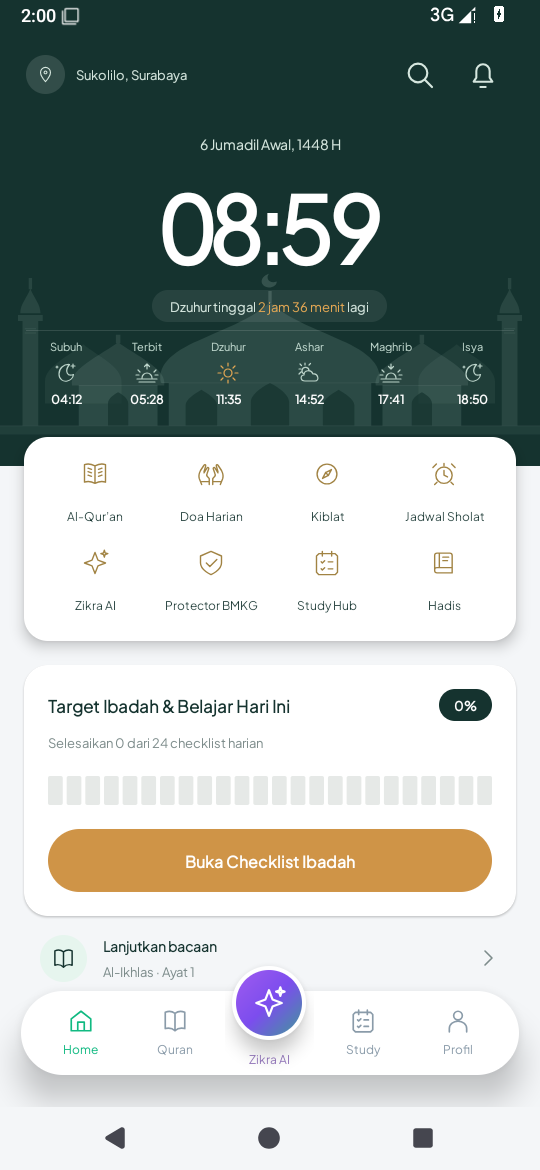
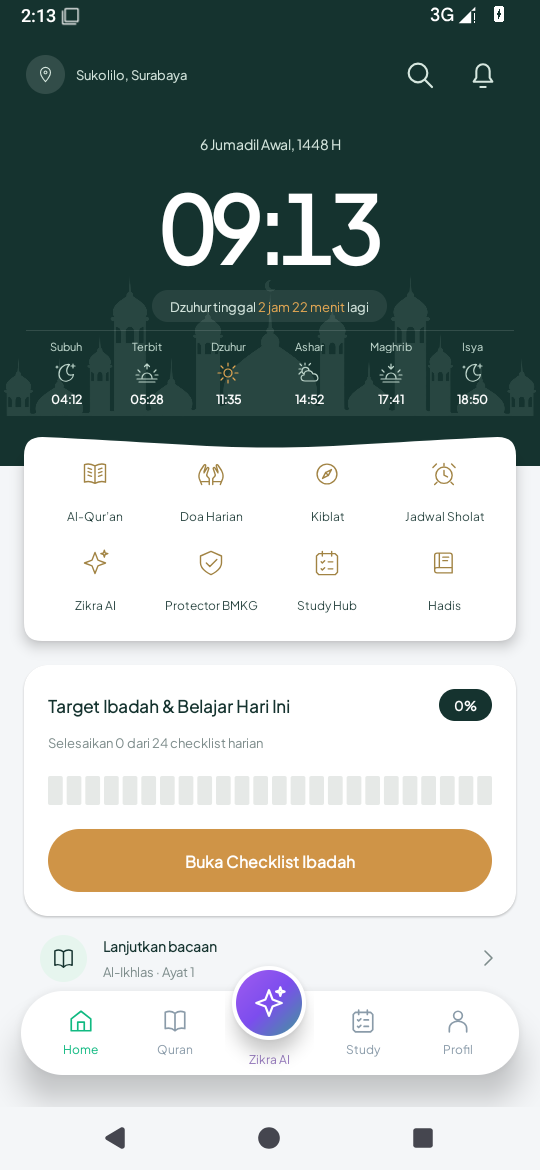
Match curved shortcut card and transparent mosque reference

diff --git a/android/app/src/main/java/com/zikra/app/ui/CurvedShortcutLayout.java b/android/app/src/main/java/com/zikra/app/ui/CurvedShortcutLayout.java
@@ -1,0 +1,75 @@
+package com.zikra.app.ui;
+
+import android.content.Context;
+import android.graphics.Canvas;
+import android.graphics.Color;
+import android.graphics.Outline;
+import android.graphics.Paint;
+import android.graphics.Path;
+import android.util.AttributeSet;
+import android.view.View;
+import android.view.ViewOutlineProvider;
+import android.widget.LinearLayout;
+
+/** XML shortcut container with the gently dipped top edge from the Home reference. */
+public final class CurvedShortcutLayout extends LinearLayout {
+  private final Paint surface = new Paint(Paint.ANTI_ALIAS_FLAG);
+  private final Path contour = new Path();
+  private final float density;
+
+  public CurvedShortcutLayout(Context context, AttributeSet attrs) {
+    super(context, attrs);
+    density = getResources().getDisplayMetrics().density;
+    surface.setColor(Color.WHITE);
+    setWillNotDraw(false);
+    setClipToOutline(false);
+    setOutlineProvider(
+        new ViewOutlineProvider() {
+          @Override
+          public void getOutline(View view, Outline outline) {
+            // Android 8 requires a convex elevation outline. Keep the actual concave contour
+            // for the surface and ripple clipping; this lower outline supplies a soft shadow.
+            if (view.getWidth() == 0 || view.getHeight() == 0) {
+              outline.setEmpty();
+              return;
+            }
+            outline.setRoundRect(
+                0, Math.round(8 * density), view.getWidth(), view.getHeight(), 14 * density);
+          }
+        });
+  }
+
+  @Override
+  protected void onSizeChanged(int width, int height, int oldWidth, int oldHeight) {
+    super.onSizeChanged(width, height, oldWidth, oldHeight);
+    float radius = Math.min(14 * density, Math.min(width, height) / 2f);
+    float dip = Math.min(8 * density, height / 8f);
+    contour.reset();
+    contour.moveTo(radius, 0);
+    contour.cubicTo(width * 0.24f, dip * 0.4f, width * 0.36f, dip, width / 2f, dip);
+    contour.cubicTo(width * 0.64f, dip, width * 0.76f, dip * 0.4f, width - radius, 0);
+    contour.quadTo(width, 0, width, radius);
+    contour.lineTo(width, height - radius);
+    contour.quadTo(width, height, width - radius, height);
+    contour.lineTo(radius, height);
+    contour.quadTo(0, height, 0, height - radius);
+    contour.lineTo(0, radius);
+    contour.quadTo(0, 0, radius, 0);
+    contour.close();
+    invalidateOutline();
+  }
+
+  @Override
+  protected void onDraw(Canvas canvas) {
+    super.onDraw(canvas);
+    canvas.drawPath(contour, surface);
+  }
+
+  @Override
+  protected void dispatchDraw(Canvas canvas) {
+    int checkpoint = canvas.save();
+    canvas.clipPath(contour);
+    super.dispatchDraw(canvas);
+    canvas.restoreToCount(checkpoint);
+  }
+}

diff --git a/android/README.md b/android/README.md
@@ -76,7 +76,7 @@ Lihat [VALIDATION.md](VALIDATION.md). Screenshot aplikasi native berada di folde
 ## Penyempurnaan Home — 17 Oktober 2026
 
 - Komposisi mengikuti referensi Home ringkas: lokasi, pencarian Quran, akses jadwal/pengingat, tanggal Hijriah, jam 70sp, countdown dan strip sholat. Status bar dan hero memakai warna Pine yang sama.
-- Siluet masjid vector digambar ulang dengan kubah, menara dan lengkungan pintu; ditempatkan di bawah jam agar angka tetap jelas.
+- Siluet masjid ditempatkan di bawah jam agar angka tetap jelas; versi terbaru menggunakan aset transparan berdasarkan acuan pengguna.
 - Grid tetap 2×4 dengan ikon garis: Al-Qur’an, Doa Harian, Kiblat, Jadwal Sholat, Zikra AI, Protector BMKG, Study Hub dan Hadis.
 - Kartu target tetap memakai 24 segmen dan persentase SQLite. Kartu lanjut bacaan menampilkan surah/ayat terakhir, dengan area scroll di atas dock.
 - Dimensi memakai varian layar pendek dan tinggi (`values/` dan `values-h740dp/`) agar tombol checklist mendapat ruang di atas dock. Tinggi hero mengikuti ukuran teks.
@@ -89,3 +89,10 @@ Lihat [VALIDATION.md](VALIDATION.md). Screenshot aplikasi native berada di folde
 - Strip sholat dinaikkan, dengan ruang 16dp sebelum kartu shortcut. Urutan setiap kolom menjadi nama waktu, ikon, lalu jam; outline lingkaran aktif dihapus, dan ikon waktu berikutnya diberi aksen amber.
 - Ikon waktu dibedakan antara bulan/bintang, terbit, matahari, berawan dan terbenam. Shortcut memakai gaya garis tipis emas yang konsisten; ikon Doa berupa tangan berdoa, Quran berupa buku terbuka dan Jadwal berupa jam alarm.
 - Delapan nama dan tujuan shortcut tetap mengikuti Zikra. Pergeseran strip mempertahankan tinggi keseluruhan konten agar tombol checklist tetap mendapat ruang pada layar pendek.
+
+### Kartu shortcut melengkung dan siluet transparan
+
+- Pembungkus shortcut memakai `ui/CurvedShortcutLayout.java`, sebuah `LinearLayout` native dengan path putih yang turun 8dp di tengah tepi atas, mengikuti lengkungan pada referensi. Grid tetap didefinisikan dalam XML.
+- Kontur yang sama membatasi ripple anak. Outline elevasi memakai bentuk convex yang kompatibel dengan Android 8, sementara permukaan kartu mempertahankan lengkungan cekung.
+- Aset `res/drawable-nodpi/home_mosque_silhouette.png` dibuat dari acuan siluet yang diberikan pengguna, dengan latar dan bukaan jendela transparan serta bidang bawah yang dipangkas. Tint teal dan alpha 0,13 diterapkan melalui XML.
+- Aset asli hasil pemrosesan disimpan tanpa modifikasi piksel tambahan. Penempatan memakai `fitCenter` agar proporsi kubah dan menara tetap terjaga.

diff --git a/android/VALIDATION.md b/android/VALIDATION.md
@@ -41,3 +41,11 @@ Screenshot yang sudah diperiksa: [Protector BMKG](validation/screens/ProtectorAc
 - Urutan kolom strip menjadi nama waktu → ikon → jam; warna aktif diterapkan ke ikon tanpa outline besar. Ikon shortcut memakai satu gaya emas, termasuk ikon tangan berdoa.
 - Screenshot standar dan 360dp pada folder `validation/screens/` diperbarui untuk versi ini. Pengujian ini berfokus pada Home; suite halaman lain tidak diulang.
 - Smoke dengan pemeriksaan jarak lulus pada kedua ukuran layar. Log versi ini: `validation/home-spacing-build.txt`, `validation/home-spacing-standard-tests.txt`, dan `validation/home-spacing-small-tests.txt`.
+
+### Pembungkus shortcut melengkung dan aset masjid transparan
+
+- Build APK, APK instrumentasi dan lint lulus setelah `CurvedShortcutLayout` ditambahkan. Tanda tangan APK diverifikasi.
+- Aset masjid PNG 2172×724 memiliki mode RGBA dengan piksel latar ber-alpha 0; aset hasil pemrosesan disalin tanpa pengeditan piksel tambahan. Tint dan transparansi tampilan diatur oleh XML.
+- Kontur atas turun 8dp di tengah, sementara ukuran grid dan elevasi dipertahankan. Screenshot Home standar dan 360dp diperbarui untuk menilai lengkungan, siluet, jarak strip dan keterlihatan CTA.
+- Validasi berfokus pada Home; data dan layanan fitur lain tidak diubah.
+- Smoke Home dan pemeriksaan jarak lulus pada lebar sekitar 411dp serta 360dp. Kedua screenshot diperiksa setelah render. Log: `validation/home-curved-build.txt`, `validation/home-curved-standard-tests.txt`, dan `validation/home-curved-small-tests.txt`.

diff --git a/README.md b/README.md
@@ -14,7 +14,7 @@ Source aplikasi native **Java + layout XML** tersedia di [`android/`](./android/
 - [Hasil pengujian](./android/VALIDATION.md)
 - [Screenshot aplikasi](./android/validation/screens/)
 
-Implementasi awal dipindahkan dari `Arkanzahir/prototype_zikra` pada commit `606dfb634db7839860ade25873c22e14ebd08c87`. Home diperbarui dengan header ringkas, siluet masjid vector, delapan shortcut (Hadis menggantikan Infaq), dan kartu target harian. Tanggal Hijriah membuka Kalender. Penyempurnaan halaman lain masih bertahap; Quran saat ini memuat empat surah, AI memakai respons lokal, dan notifikasi pengingat sholat belum dijadwalkan.
+Implementasi awal dipindahkan dari `Arkanzahir/prototype_zikra` pada commit `606dfb634db7839860ade25873c22e14ebd08c87`. Home diperbarui dengan header ringkas, siluet masjid transparan, kartu shortcut dengan tepi atas melengkung, delapan shortcut (Hadis menggantikan Infaq), dan kartu target harian. Tanggal Hijriah membuka Kalender. Penyempurnaan halaman lain masih bertahap; Quran saat ini memuat empat surah, AI memakai respons lokal, dan notifikasi pengingat sholat belum dijadwalkan.
 
 Daftar fitur berikut merupakan target produk dan belum seluruhnya tersedia dalam aplikasi.
 
